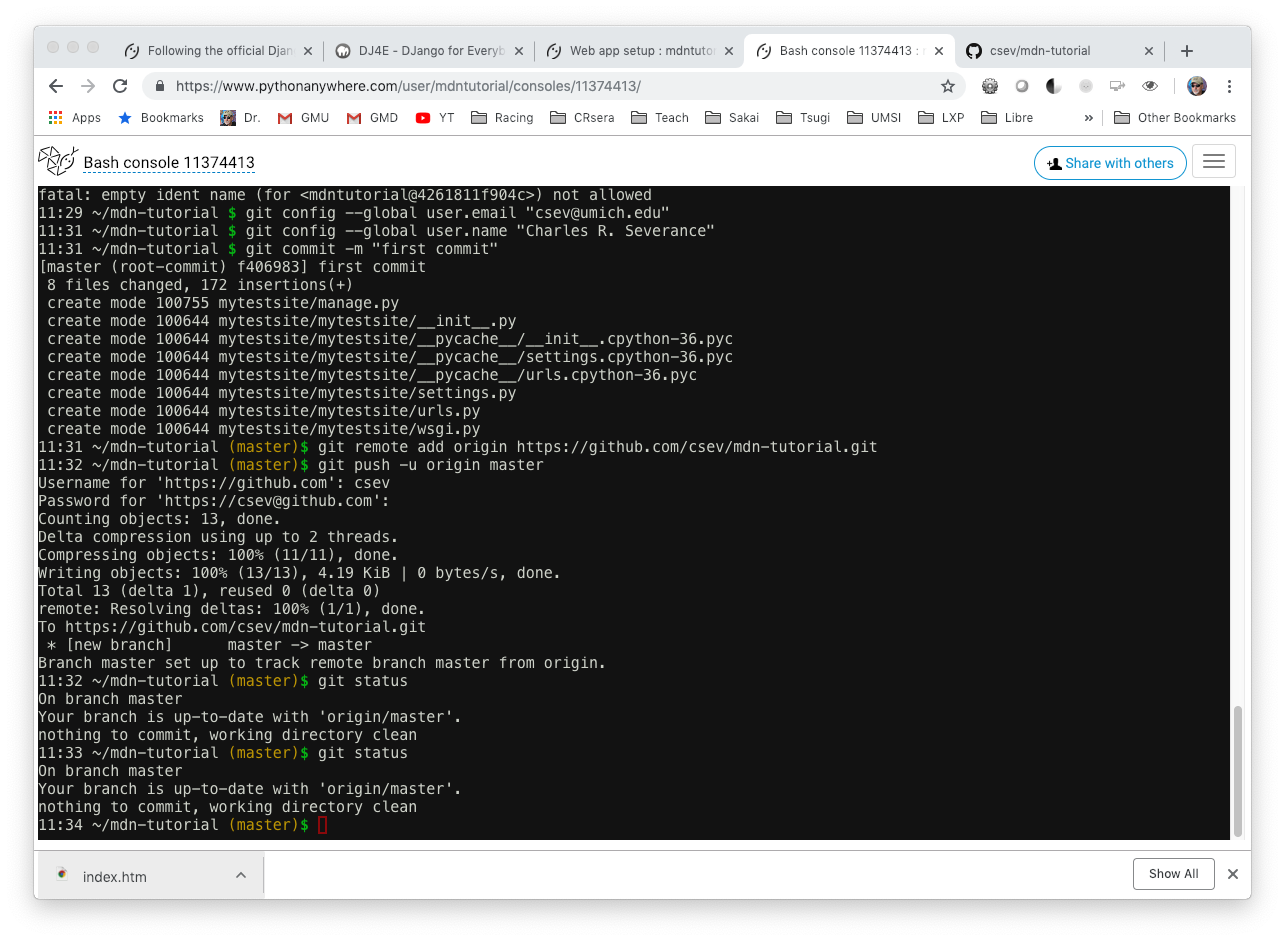
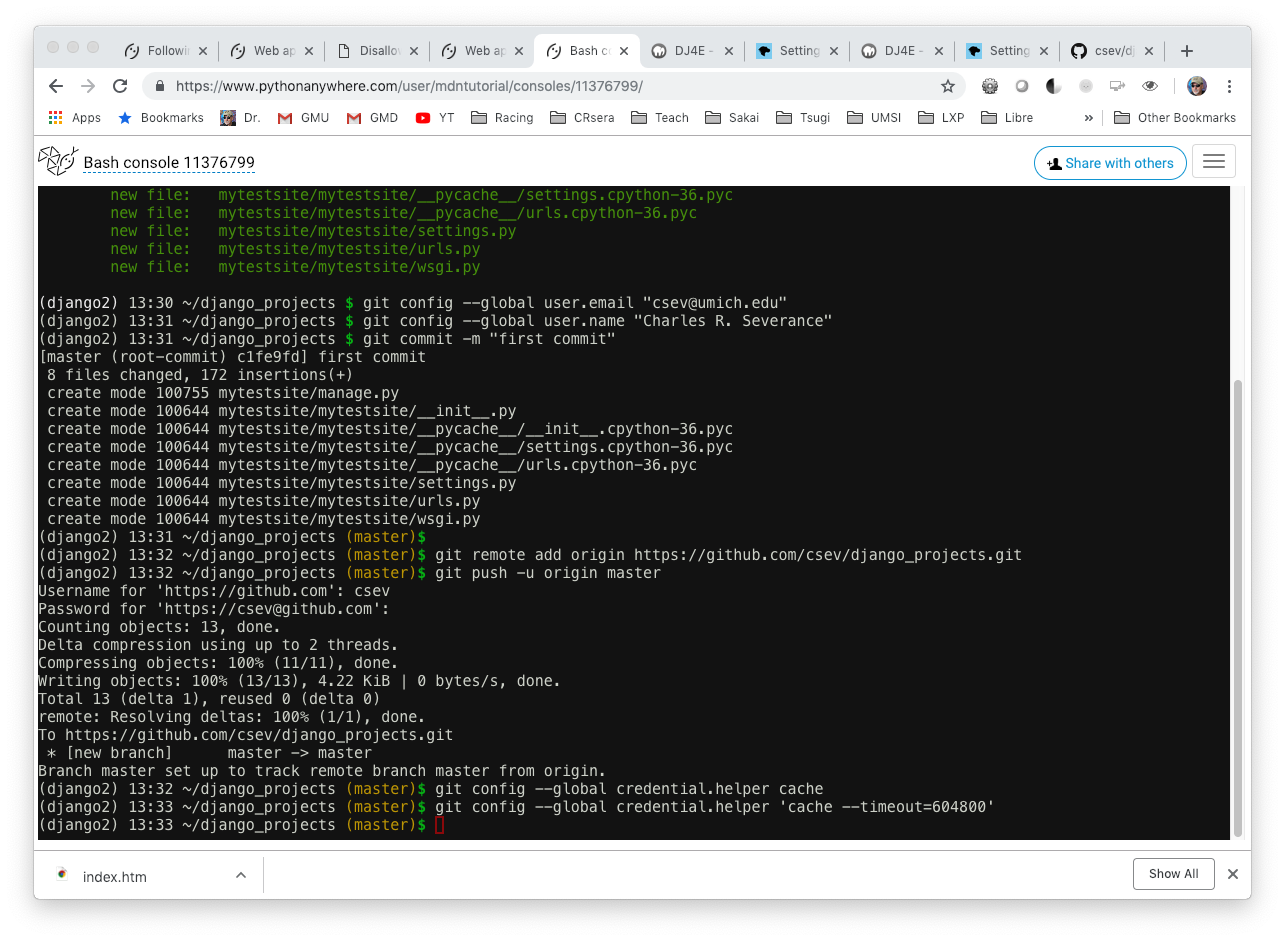
Adjust github assignment

diff --git a/assn/paw_github.md b/assn/paw_github.md
@@ -1,32 +1,31 @@
 Moving your code into github
 ============================
 
-Go to github, create a new private repo `mdn-tutorial`
+Go to github, create a new private repo called `django_projects`
 
 Go into a PythnonAnywhere shell
 
-    cd ~/mdn-tutorial
+    cd ~/django_projects
     git init
     git add *
     git status
-    git config --global user.email "csev@umich.edu"
-    git config --global user.name "Charles R. Severance"
+    git config --global user.email "youremail@umich.edu"
+    git config --global user.name "Your X. Name"
     git commit -m "first commit" 
-    git remote add origin https://github.com/csev/mdn-tutorial.git
+    git remote add origin https://github.com/csev/django_projects.git
     git push -u origin master
     (enter id and password for git)
 
 Go to 
 
-    https://github.com/csev/mdn-tutorial
+    https://github.com/csev/django_projects
 
-Verify the data has been pushed.  And verify that it is private.
-    
+Verify the data has been pushed to the repo and verify that it is private.
 
+If you get tired of typing your github credentials over and over, you can tell
+the bash shell to cache them for a week using the following caommands:
 
 https://help.github.com/articles/caching-your-github-password-in-git/#platform-linux
-
-Cache for  week.
 
     git config --global credential.helper cache
     git config --global credential.helper 'cache --timeout=604800'
